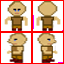
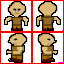
Refined some textures.

Changed region(s): [[0.0625, 0.0, 0.4688, 1.0], [0.5625, 0.0, 0.9688, 1.0], [0.5, 0.2188, 0.5312, 0.4688]]

diff --git a/src/EntitySystem.cpp b/src/EntitySystem.cpp
@@ -134,19 +134,19 @@ namespace EntitySystem {
                 int y = 32*(index)/64;
                 y += offsetY;
                 //std::cerr << y << std::endl;
-                if(x >= game::getOffset()->x &&
+                if(x+96 >= game::getOffset()->x &&
                     x < game::getOffset()->x + game::getOffset()->w &&
-                    y >= game::getOffset()->y &&
-                    y < game::getOffset()->y + game::getOffset()->h)
+                    y+96 >= game::getOffset()->y &&
+                    y-96 < game::getOffset()->y + game::getOffset()->h)
                     ent.second->draw();
             }
         } else {
-            for(int i = game::getOffset()->y; i < game::getHeight()+game::getOffset()->y;i++) {
+            for(int i = game::getOffset()->y; i < game::getHeight()+game::getOffset()->y+96;i++) {
             //for(auto vec = entities.begin(); vec != entities.end(); vec++) {
                 for(auto& e : entities[i]) {
                     if(e->hasComponent<Position>()) {
                         int x = e->getComponent<Position>().getX();
-                        if(x >= game::getOffset()->x &&
+                        if(x+96 >= game::getOffset()->x &&
                             x < game::getWidth()+game::getOffset()->x)
                             e->draw();
                     }

diff --git a/src/PlayerController.cpp b/src/PlayerController.cpp
@@ -80,24 +80,26 @@ int getMaxExperience(int lv) {
 /** --------------- Setters --------------- */
 
 void PlayerController::increaseExperience(int e) {
-    std::cout << "Got " << e << " xp!" << std::endl;
-    setExperience(e);
+    std::cout << "-- Got " << e << " xp! --" << std::endl;
+    setExperience(experience+e);
 }
 
 void PlayerController::setExperience(int e) {
-    if(experience + e >= getMaxExperience(level)) {
+    if(e >= getMaxExperience(level)) {
         level+=1;
-        experience += e;
-        int inc = experience - getMaxExperience(level-1);
+        int inc = e - getMaxExperience(level-1);
         experience = 0;
         if(inc > 0) {
-            increaseExperience(inc);
+            setExperience(inc);
         }
-        std::cout << "LEVELUP!!!!"<< std::endl;
+        std::cout << "-----------------------------\n"<<
+                     "|         LEVELUP!!!\n"<<
+                     "|          "<<level<<"\n" <<
+                     "-----------------------------" <<std::endl;
 
     } else {
-        experience += e;
-        std::cout << "Level: "<< level<<" Exp: " << experience << "/" << getMaxExperience(level)<< std::endl;
+        experience = e;
+        std::cout << "!! LV: "<< level<<" XP: " << experience << "/" << getMaxExperience(level)<<" !!"<< std::endl;
     }
 }
 

diff --git a/src/Game.cpp b/src/Game.cpp
@@ -69,10 +69,10 @@ namespace game {
     void start() {
         std::cerr << " - game::start() ..." << std::endl;
         lInterface.initLua();
-        playerController.setName("freddun");
+        playerController.setName("assdd");
         //playerController.save(&lInterface);
         playerController.load("nooobn", &lInterface);
-        std::cout << playerController.getName() << " exp: "<<playerController.getExperience() << std::endl;
+        std::cout <<"Saved game '" <<playerController.getName() << "' Loaded! Level: "<<playerController.getLevel() << std::endl;
 
         mapController.init(&lInterface);
         itemManager.init(&lInterface);

diff --git a/src/InGame.cpp b/src/InGame.cpp
@@ -61,7 +61,7 @@ void InGame::draw() {
 */
     // Draw all entities.
     //inGameManager.draw();
-    tInterface.render(0,0,NULL); /// Sample interface
+    //tInterface.render(0,0,NULL); /// Sample interface
     // Display inventory
     if(showInventory)
         inv.draw();

diff --git a/src/LuaInterface.cpp b/src/LuaInterface.cpp
@@ -98,6 +98,7 @@ namespace lua_functions {
             game::getPlayerController()->setPosX(lua_tonumber(l_state,8));
             game::getPlayerController()->setPosY(lua_tonumber(l_state,9));
         }
+        return 0;
     }
 
     /// ASSET LOADING
